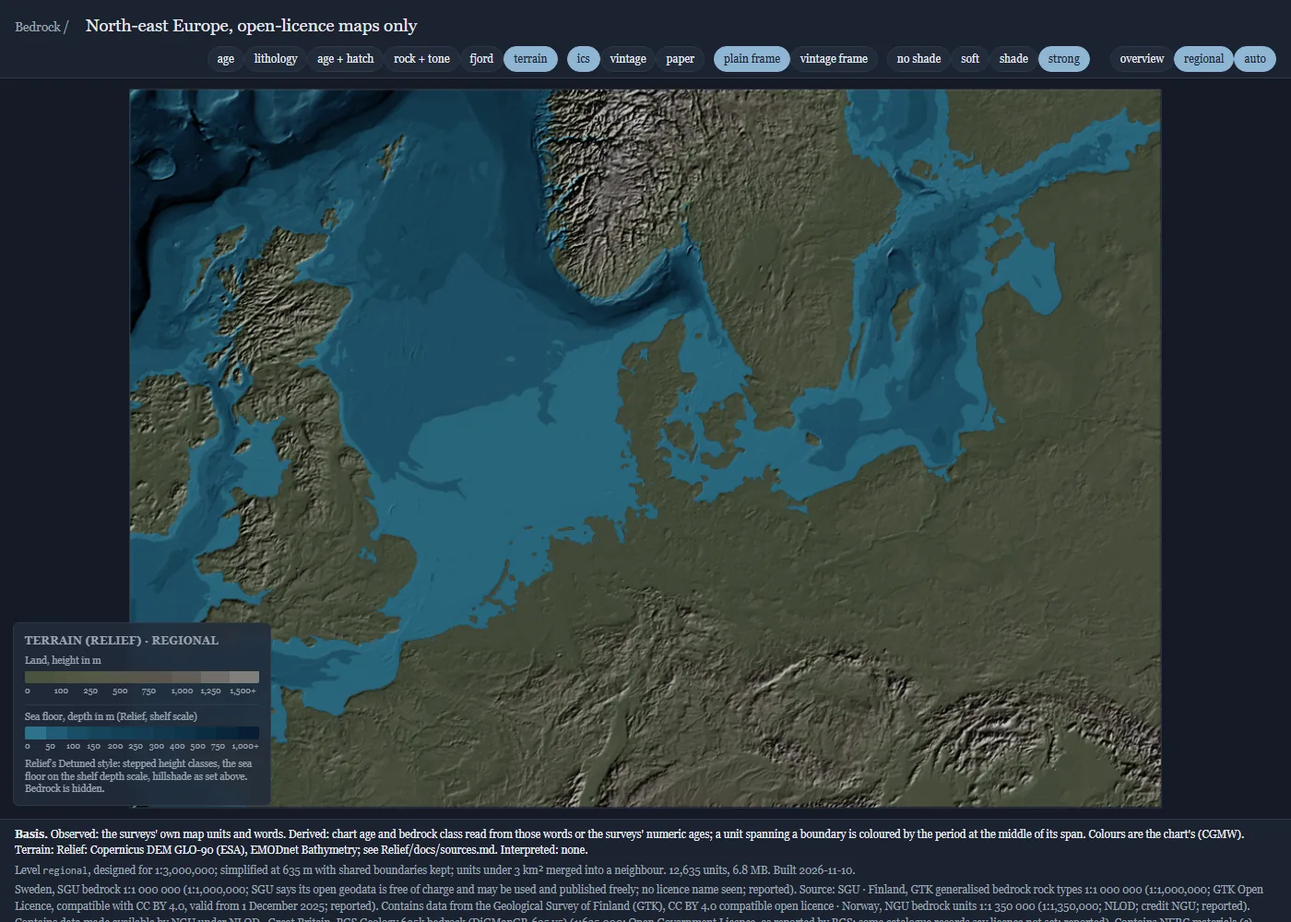
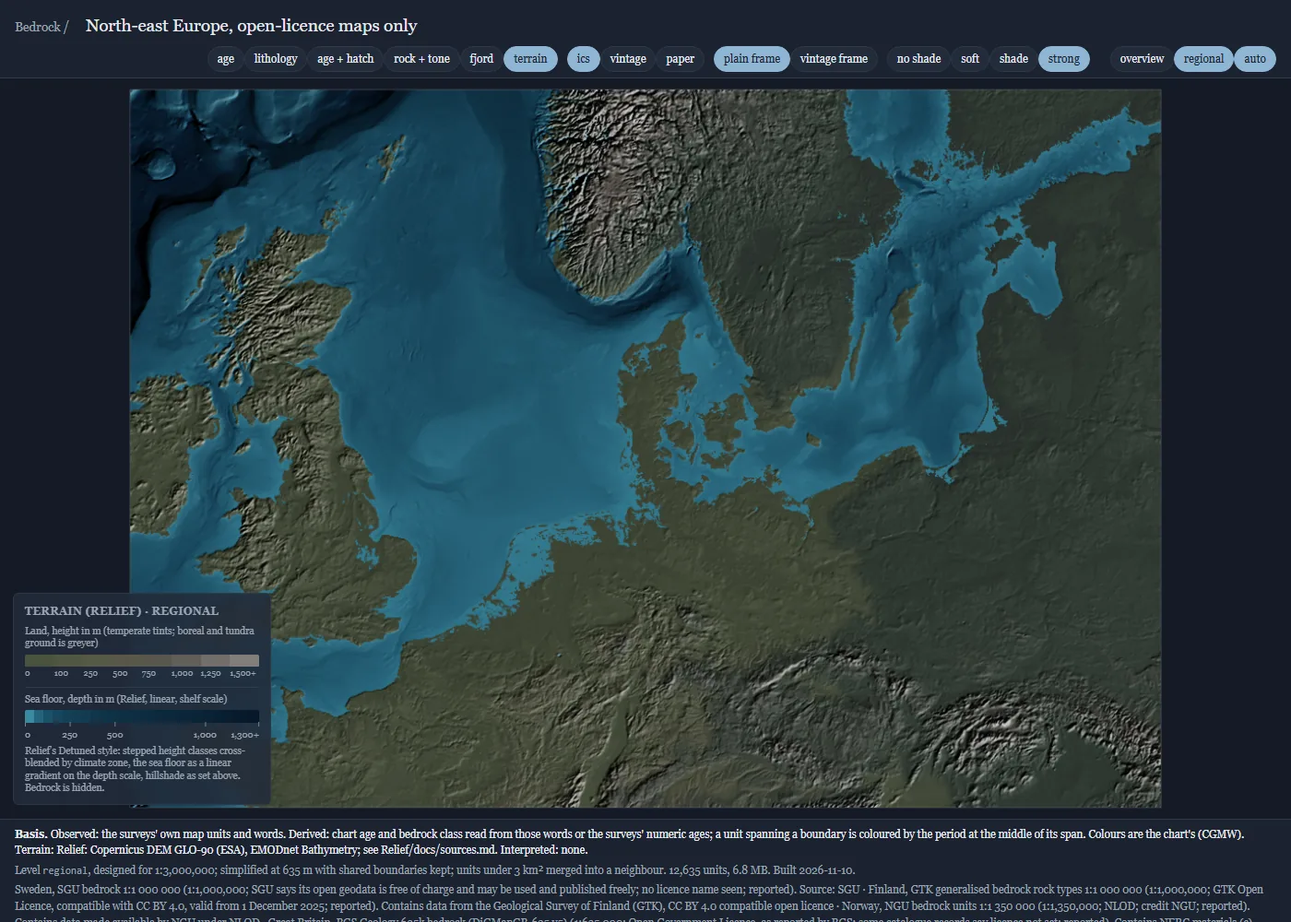
Relief's base maps under both viewers; catchment shapes on one colour family; legend bars render
publish.py copies each frame's regional_base_{light,dark}.png and the base part of Relief's manifest, so the sea floor is
Relief's linear bathymetry and the land its stepped climate tints; the depth key follows the manifest. In the combined
water view the river ribbons are detuned and the fall lines above them carry a saturated blue-to-indigo ramp.

Claude-Session: https://claude.ai/code/session_01XvpqcX8HdSbCdMgD8MUffi

diff --git a/site/s2s.js b/site/s2s.js
@@ -2,7 +2,8 @@
    Data: ../data/derived/<region>/layers.json and the files it lists; Relief layers from the sibling repo (serve the parent).
    Views (fill): cluster | quality | yield | sand | shield | carbonate | age | size | none.
    Water: all (slope threads under the river network and flow ribbons: the catchment-shape view) | network | flow | slope | off.
-   Sea floor and land wash on Relief's own depth and height scales (palette copied from Relief/preview/palette.js).
+   Under everything, Relief's base map (regional_base_{light,dark}.png: linear bathymetry, stepped climate-tinted land, see
+   Relief/docs/base-maps.md); the depth key follows Relief's manifest. Bands are coloured here only for a frame without a base.
    Ink: strong (clear blue, firm outlines) | subtle (desaturated, thin, blends with the map).  Shade: 0 to 1.5.
    Fold: hide catchments under a size class so the smallest do not turn the coast to noise. */
 
@@ -32,6 +33,12 @@ const systemMesh = topojson.mesh(topoS, topoS.objects.systems, (a, b) => a !== b
 const rivers = topojson.feature(topoR, topoR.objects.rivers).features;
 const hill = new Image(); hill.src = doc.relief.hillshade;
 await new Promise(res => { hill.onload = res; hill.onerror = res; });
+// Relief's base map (docs/base-maps.md in Relief): linear bathymetry on the frame's depth scale, stepped land tints by climate
+// zone, rendered once by Relief and drawn here as it is; its manifest names the depth scale for the key
+const reliefDir = ("../../" + doc.relief.hillshade).replace(/\/[^/]*$/, "");
+const rman = await fetch(reliefDir + "/manifest.json").then(r => r.ok ? r.json() : null).catch(() => null);
+const baseImg = new Image();
+if (rman && rman.base) { baseImg.src = reliefDir + "/" + rman.base.regional[dark ? "dark" : "light"]; await new Promise(res => { baseImg.onload = res; baseImg.onerror = res; }); }
 // Relief's hillshade PNG is light (flat ground sits near 180 of 255), and soft-light is neutral at mid grey, so drawn as it
 // comes it barely shows. Flat ground is moved to mid grey and the slopes stretched before the shade is composited.
 function toneHill(img, flat = 180, gain = 2.5) {
@@ -50,13 +57,16 @@ for (const f of systems) f.bbox = d3.geoPath().bounds(f);
 const RELIEF = {
   seaStops: [0, 20, 50, 100, 200, 500, 1000], seaMax: 1300,
   sea: { light: ["#e8f0f2", "#cfe1e6", "#aacdd8", "#7eb0c5", "#5891ae", "#3a6d94", "#264b73", "#162b50"], dark: ["#3a8aa2", "#2f7690", "#25647d", "#1c526b", "#144157", "#0e3045", "#092336", "#06172a"] },
+  oceanStops: [0, 200, 1000, 2000, 3000, 4000, 5000, 6000, 7000], oceanMax: 7000,
+  ocean: { light: ["#e2f4f9", "#bfe2ed", "#83bddc", "#5c9acd", "#4579ba", "#355a9f", "#2a3e80", "#1e2763", "#131546"], dark: ["#71b7c8", "#56a5bd", "#2c83aa", "#1d679c", "#154b8a", "#113375", "#101e5c", "#0a0b42", "#040027"] },
   landStops: [0, 50, 150, 300, 600, 1000, 1500, 2000], landMax: 2000,
   landRaw: { light: ["#d6e8b8", "#c6dea0", "#bad38f", "#cbcf92", "#d9c897", "#ccb8a0", "#d8d0c6", "#efece8"], dark: ["#46572f", "#4c5d33", "#536237", "#5d633b", "#665f42", "#655d50", "#85807a", "#aaa6a1"] },
 };
 function tune(h, sat, mix) { const c = d3.rgb(h), y = 0.2126 * c.r + 0.7152 * c.g + 0.0722 * c.b, t = mix > 0 ? 255 : 0, m = Math.abs(mix); const f = v => { const g = y + (v - y) * sat; return g + (t - g) * m; }; return d3.rgb(f(c.r), f(c.g), f(c.b)).formatHex(); }
 function reliefColour(kind, metres) {
-  const cols = kind === "sea" ? RELIEF.sea[dark ? "dark" : "light"] : RELIEF.landRaw[dark ? "dark" : "light"].map(h => tune(h, 0.5, dark ? -0.08 : 0.08));
-  const br = kind === "sea" ? RELIEF.seaStops : RELIEF.landStops, max = kind === "sea" ? RELIEF.seaMax : RELIEF.landMax;
+  const th = dark ? "dark" : "light";
+  const cols = kind === "sea" ? RELIEF.sea[th] : kind === "ocean" ? RELIEF.ocean[th] : RELIEF.landRaw[th].map(h => tune(h, 0.5, dark ? -0.08 : 0.08));
+  const br = kind === "sea" ? RELIEF.seaStops : kind === "ocean" ? RELIEF.oceanStops : RELIEF.landStops, max = kind === "sea" ? RELIEF.seaMax : kind === "ocean" ? RELIEF.oceanMax : RELIEF.landMax;
   const stops = br.map((b, i) => [b / max, cols[i]]); if (cols.length > br.length) stops.push([1, cols.at(-1)]);
   let t = Math.min(1, Math.max(0, metres / max)), k = 0; while (k < stops.length - 2 && t > stops[k + 1][0]) k++;
   const [t0, c0] = stops[k], [t1, c1] = stops[k + 1]; return d3.interpolateRgb(c0, c1)(Math.min(1, Math.max(0, (t - t0) / (t1 - t0 || 1))));
@@ -85,6 +95,13 @@ function tickBar(title, rampOf, ticks) {
   const tk = ticks.map(([t, l]) => `<span style="left:${(100 * t).toFixed(1)}%">${l}</span>`).join("");
   return `<div class="k">${title}</div><div class="bar">${stops}</div><div class="ticks">${tk}</div>`;
 }
+// the depth key as Relief's manifest describes it: a linear bar on the frame's depth scale with the manifest's ticks
+function depthKey() {
+  if (!rman || !rman.base) return "";
+  const ds = rman.base.depth_scale, kind = ds.kind === "ocean" ? "ocean" : "sea", max = ds.max_m;
+  const ticks = ds.ticks_m.filter(v => v / max < 0.9).map(v => [v / max, fmtN(v)]).concat([[1, fmtN(max) + "+"]]);
+  return `<div class="sep"></div>` + tickBar(`Sea floor, depth in m (Relief, linear, ${ds.kind} scale)`, t => reliefColour(kind, t * max), ticks);
+}
 
 const CL = ["#c8553d", "#3d6e9e", "#7a9a3b", "#b8860b", "#6b4c9a", "#2e8b8b", "#a0522d", "#5f5f5f"];
 const SIZE = { "under 1,000 km2": "#dcd6c8", "1,000 to 10,000 km2": "#b9b1a0", "10,000 to 100,000 km2": "#8c8372", "over 100,000 km2": "#5a5247" };
@@ -93,7 +110,10 @@ const ramp = d3.scaleSequential(d3.interpolateViridis).domain([0, 1]);
 const ageRamp = d3.scaleSequential(t => d3.interpolateRdYlBu(1 - t)).domain([1, 3.5]);
 const qualRamp = d3.scaleSequential(d3.interpolateYlGnBu).domain([0.1, 0.6]);      // sand quality proxy, most catchments fall between
 const yieldRamp = d3.scaleSequential(d3.interpolateYlOrBr).domain([0.5, 3]);        // log10 yield t/km2/yr, or log10 sand Mt/yr + 2
-const gradRamp = d3.scaleSequential(d3.interpolateViridis).domain([0, 0.08]);       // slope flow gradient (m/m)
+// Slope flow gradient (m/m) on one family with the water: flat ground in the detuned river blue, steep in a saturated indigo.
+// In the combined view the ribbons take the flat tone at low saturation and the threads above them carry the colour.
+const SHAPE = { flat: dark ? "#7fa3b8" : "#7f9fb4", steep: dark ? "#b08cff" : "#3a1f9c" };
+const shapeRamp = d3.scaleSequential(d3.interpolateHcl(SHAPE.flat, SHAPE.steep)).domain([0, 0.08]);
 const visible = p => (p.log10_area ?? 9) >= fold;
 
 function fillOf(p) {
@@ -123,9 +143,10 @@ function render() {
   path = d3.geoPath(proj, ctx);
   const [px0, py1] = proj([x0, y0]), [px1, py0] = proj([x1, y1]);
   ctx.fillStyle = getComputedStyle(document.body).getPropertyValue("--sea").trim(); ctx.fillRect(0, 0, W, H);
-  // Relief's sea floor on its depth scale, the land as a quiet height wash: the catchments sit on terrain that reads as terrain
+  // Relief's base map under everything (linear sea, stepped climate-tinted land); the bands coloured here only if a frame has no base yet
   let seaLevels = null;
-  if (bands) { seaLevels = drawBands("sea", 1); drawBands("land", ink === "strong" ? 0.55 : 0.75); }
+  if (baseImg.width) { ctx.drawImage(baseImg, px0, py0, px1 - px0, py1 - py0); if (ink === "strong") { ctx.fillStyle = dark ? "rgba(0,0,0,.18)" : "rgba(255,255,255,.22)"; ctx.fillRect(px0, py0, px1 - px0, py1 - py0); } }
+  else if (bands) { seaLevels = drawBands("sea", 1); drawBands("land", ink === "strong" ? 0.55 : 0.75); }
   // catchments
   const shown = systems.filter(f => visible(f.properties));
   const fa = ink === "strong" ? (dark ? 0.55 : 0.5) : (dark ? 0.35 : 0.3);
@@ -138,16 +159,17 @@ function render() {
   const sysOf = new Map(shown.map(f => [f.properties.system, f.properties]));
   // "all" is the catchment-shape view: the fall lines of the terrain as fine threads underneath, the rivers as ribbons gathering
   // over them and the network as a hairline, so the shape of each catchment reads from slope to mouth in one picture
-  if (riverMode === "slope" || riverMode === "all") slopeThreads(riverMode === "all");
+  // in the combined view the ribbons are detuned and sit under the slope threads, which carry the saturated colour; all one family
   if (riverMode === "network" || riverMode === "all") {
     for (const f of rivers) {
       if (fold && !sysOf.has(f.properties.system)) continue;
       const q = f.properties.log_discharge ?? 0; ctx.beginPath(); path(f);
       ctx.lineWidth = riverMode === "all" ? 0.3 : Math.max(0.3, (ink === "strong" ? 0.25 : 0.15) + (ink === "strong" ? 0.9 : 0.5) * q);
-      ctx.strokeStyle = riverMode === "all" ? alphaFill(inkRiver(), 0.35) : inkRiver(); ctx.stroke();
+      ctx.strokeStyle = riverMode === "all" ? alphaFill(SHAPE.flat, 0.3) : inkRiver(); ctx.stroke();
     }
   }
-  if (riverMode === "flow" || riverMode === "all") flowLines(sysOf);
+  if (riverMode === "flow" || riverMode === "all") flowLines(sysOf, riverMode === "all");
+  if (riverMode === "slope" || riverMode === "all") slopeThreads(riverMode === "all");
   // outlets
   for (const f of outlets.features) {
     if (fold && !sysOf.has(f.properties.system)) continue;
@@ -160,32 +182,33 @@ function render() {
 }
 /* Slope flow: paths of steepest descent on Relief's terrain, coloured by their mean gradient, the fall lines the rivers follow.
    Under the rivers (the combined view) they are drawn finer and quieter so the ribbons stay the subject. */
-function slopeThreads(under) {
+function slopeThreads(combined) {
   if (!slopeFlow) return;
   for (const f of slopeFlow.features) {
     const g = f.properties.mean_gradient; ctx.beginPath(); path(f);
-    ctx.strokeStyle = alphaFill(gradRamp(g), under ? (ink === "strong" ? 0.55 : 0.3) : (ink === "strong" ? 0.8 : 0.45)); ctx.lineWidth = under ? 0.45 : (ink === "strong" ? 0.7 : 0.45); ctx.stroke();
+    ctx.strokeStyle = alphaFill(shapeRamp(g), combined ? (ink === "strong" ? 0.9 : 0.6) : (ink === "strong" ? 0.85 : 0.5)); ctx.lineWidth = combined ? 0.6 : (ink === "strong" ? 0.7 : 0.45); ctx.stroke();
   }
 }
 
 /* Flow-line view: each reach drawn as a tapered ribbon whose width grows with discharge, in the colour of its catchment's
    group (or the ink), with a soft glow; the network reads as flow converging on the outlet rather than as a wire frame.
    The taper follows seismic_art's cities concept: strokes gain weight as they gather. Smoothing is Chaikin, two passes. */
-function flowLines(sysOf) {
+function flowLines(sysOf, combined = false) {
   const byQ = rivers.filter(f => !fold || sysOf.has(f.properties.system)).sort((a, b) => (a.properties.log_discharge ?? 0) - (b.properties.log_discharge ?? 0));
   ctx.save();
   for (const pass of ["glow", "core"]) {
     for (const f of byQ) {
       const p = f.properties, q = Math.max(0, p.log_discharge ?? 0);
       const sys = sysOf.get(p.system);
-      const col = ink === "strong" ? (sys && sys.cluster >= 0 && mode === "cluster" ? CL[sys.cluster % CL.length] : (dark ? "#a8d0ff" : "#1f5a8f")) : (dark ? "#aab7c6" : "#5c6f82");
+      let col = ink === "strong" ? (sys && sys.cluster >= 0 && mode === "cluster" ? CL[sys.cluster % CL.length] : (dark ? "#a8d0ff" : "#1f5a8f")) : (dark ? "#aab7c6" : "#5c6f82");
+      if (combined) col = mode === "cluster" && ink === "strong" ? tune(col, 0.35, dark ? -0.05 : 0.08) : SHAPE.flat;   // detuned, so the threads above carry the colour
       const lines = f.geometry.type === "LineString" ? [f.geometry.coordinates] : f.geometry.coordinates;
       for (const line of lines) {
         const pts = chaikin(line.map(c => proj(c)), 2);
         if (pts.length < 2) continue;
         ctx.beginPath(); ctx.moveTo(pts[0][0], pts[0][1]); for (let i = 1; i < pts.length; i++) ctx.lineTo(pts[i][0], pts[i][1]);
-        if (pass === "glow") { ctx.strokeStyle = alphaFill(col, ink === "strong" ? 0.18 : 0.1); ctx.lineWidth = 2.2 + 2.6 * q; }
-        else { ctx.strokeStyle = alphaFill(col, ink === "strong" ? 0.95 : 0.55); ctx.lineWidth = 0.4 + 1.3 * q; }
+        if (pass === "glow") { ctx.strokeStyle = alphaFill(col, combined ? 0.1 : ink === "strong" ? 0.18 : 0.1); ctx.lineWidth = 2.2 + 2.6 * q; }
+        else { ctx.strokeStyle = alphaFill(col, combined ? 0.6 : ink === "strong" ? 0.95 : 0.55); ctx.lineWidth = 0.4 + 1.3 * q; }
         ctx.stroke();
       }
     }
@@ -225,11 +248,11 @@ function legend(seaLevels) {
   }
   const foldNote = fold ? `<div class="row"><span class="k">catchments under ${fold === 3 ? "1,000" : "10,000"} km² hidden</span></div>` : "";
   const water = [];
-  if (riverMode === "all") water.push(`<div class="k" style="margin-top:6px">Catchment shapes: the terrain's fall lines as fine threads, the river network as a hairline, and the rivers as ribbons whose width and glow grow with mean discharge${mode === "cluster" && ink === "strong" ? " in the colour of the catchment group" : ""}</div>`);
+  if (riverMode === "all") water.push(`<div class="k" style="margin-top:6px">Catchment shapes: the rivers as muted ribbons whose width grows with mean discharge${mode === "cluster" && ink === "strong" ? " in the detuned colour of the catchment group" : ""}, the network as a hairline, and over them the terrain's fall lines coloured by gradient</div>`);
   if (riverMode === "flow") water.push(`<div class="k" style="margin-top:6px">Flow lines: width and glow grow with mean discharge${mode === "cluster" && ink === "strong" ? ", colour is the catchment group" : ""}</div>`);
   if (riverMode === "network") water.push(`<div class="k" style="margin-top:6px">Rivers: line weight grows with mean discharge</div>`);
-  if (riverMode === "slope" || riverMode === "all") water.push(tickBar("Slope flow: steepest descent on Relief terrain, colour is the mean gradient", t => gradRamp(0.08 * t), [0, 2, 4, 6, 8].map(v => [v / 8, v + " %"])));
-  const depth = seaLevels && shade >= 0 ? `<div class="sep"></div>${stepStrip("Sea floor, depth in m (Relief, shelf scale)", "sea", seaLevels)}` : "";
+  if (riverMode === "slope" || riverMode === "all") water.push(tickBar("Fall lines: steepest descent on Relief terrain, colour is the mean gradient", t => shapeRamp(0.08 * t), [0, 2, 4, 6, 8].map(v => [v / 8, v + " %"])));
+  const depth = depthKey() || (seaLevels ? `<div class="sep"></div>${stepStrip("Sea floor, depth in m (Relief, shelf scale)", "sea", seaLevels)}` : "");
   el.innerHTML = `<h3>${mode === "cluster" ? "Catchment groups by bedrock and age" : mode === "size" ? "Catchment size, log classes" : mode === "none" ? "Catchments outlined" : "Catchment index"}</h3>${rows}${foldNote}${water.join("")}${depth}`;
 }
 function strip() {

diff --git a/site/geology.js b/site/geology.js
@@ -5,7 +5,9 @@
    Views: age | lithology | age+hatch | tone (lithology hue, age as lightness on a linear ramp) | fjord (age alone on
    SubScout's fjord ramp) | terrain (Relief frames only: Relief's height and depth classes, bedrock hidden).
    Palettes: ics | vintage | paper. Frames: plain | vintage. Shade: 0 (off) to 1.5.
-   The sea floor is always on Relief's shelf depth scale (palette copied from Relief/preview/palette.js); the key shows it. */
+   Under everything on a Relief frame, Relief's base map (regional_base_{light,dark}.png: linear bathymetry, stepped
+   climate-tinted land; Relief/docs/base-maps.md); the depth key follows Relief's manifest. Bands are coloured here only
+   for a frame without a base. */
 
 const params = new URLSearchParams(location.search);
 const region = params.get("r") || "norway";
@@ -88,9 +90,17 @@ async function loadRelief(level) {
     hillCache.set(lv, img.width ? toneHill(img) : null);
     const b = await fetch(doc.relief.bands[lv]).then(r => r.ok ? r.json() : null).catch(() => null);
     bandCache.set(lv, b);
+    // Relief's base map (Relief/docs/base-maps.md): linear bathymetry on the frame's depth scale, stepped land tints by climate
+    // zone, rendered once by Relief; its manifest names the depth scale for the key
+    const dir = (doc.relief.hillshade[lv]).replace(/\/[^/]*$/, "");
+    const rm = await fetch(dir + "/manifest.json").then(r => r.ok ? r.json() : null).catch(() => null);
+    const bases = {};
+    if (rm && rm.base) for (const th of ["light", "dark"]) { const im = new Image(); im.src = dir + "/" + rm.base.regional[th]; await new Promise(res => { im.onload = res; im.onerror = res; }); if (im.width) bases[th] = im; }
+    baseCache.set(lv, { rm, bases });
   }
-  return [hillCache.get(lv), bandCache.get(lv)];
+  return [hillCache.get(lv), bandCache.get(lv), baseCache.get(lv)];
 }
+const baseCache = new Map();
 
 /* colour */
 const noAge = () => dark ? "#6b7280" : "#cfd3d8";
@@ -126,13 +136,16 @@ const alphaFill = (hex, a) => { const c = d3.color(hex); if (!c) return hex; c.o
 const RELIEF = {
   seaStops: [0, 20, 50, 100, 200, 500, 1000], seaMax: 1300,
   sea: { light: ["#e8f0f2", "#cfe1e6", "#aacdd8", "#7eb0c5", "#5891ae", "#3a6d94", "#264b73", "#162b50"], dark: ["#3a8aa2", "#2f7690", "#25647d", "#1c526b", "#144157", "#0e3045", "#092336", "#06172a"] },
+  oceanStops: [0, 200, 1000, 2000, 3000, 4000, 5000, 6000, 7000], oceanMax: 7000,
+  ocean: { light: ["#e2f4f9", "#bfe2ed", "#83bddc", "#5c9acd", "#4579ba", "#355a9f", "#2a3e80", "#1e2763", "#131546"], dark: ["#71b7c8", "#56a5bd", "#2c83aa", "#1d679c", "#154b8a", "#113375", "#101e5c", "#0a0b42", "#040027"] },
   landStops: [0, 50, 150, 300, 600, 1000, 1500, 2000], landMax: 2000,
   landRaw: { light: ["#d6e8b8", "#c6dea0", "#bad38f", "#cbcf92", "#d9c897", "#ccb8a0", "#d8d0c6", "#efece8"], dark: ["#46572f", "#4c5d33", "#536237", "#5d633b", "#665f42", "#655d50", "#85807a", "#aaa6a1"] },
 };
 function tune(h, sat, mix) { const c = d3.rgb(h), y = 0.2126 * c.r + 0.7152 * c.g + 0.0722 * c.b, t = mix > 0 ? 255 : 0, m = Math.abs(mix); const f = v => { const g = y + (v - y) * sat; return g + (t - g) * m; }; return d3.rgb(f(c.r), f(c.g), f(c.b)).formatHex(); }
 function reliefColour(kind, metres) {
-  const cols = kind === "sea" ? RELIEF.sea[dark ? "dark" : "light"] : RELIEF.landRaw[dark ? "dark" : "light"].map(h => tune(h, 0.5, dark ? -0.08 : 0.08));
-  const br = kind === "sea" ? RELIEF.seaStops : RELIEF.landStops, max = kind === "sea" ? RELIEF.seaMax : RELIEF.landMax;
+  const th = dark ? "dark" : "light";
+  const cols = kind === "sea" ? RELIEF.sea[th] : kind === "ocean" ? RELIEF.ocean[th] : RELIEF.landRaw[th].map(h => tune(h, 0.5, dark ? -0.08 : 0.08));
+  const br = kind === "sea" ? RELIEF.seaStops : kind === "ocean" ? RELIEF.oceanStops : RELIEF.landStops, max = kind === "sea" ? RELIEF.seaMax : kind === "ocean" ? RELIEF.oceanMax : RELIEF.landMax;
   const stops = br.map((b, i) => [b / max, cols[i]]); if (cols.length > br.length) stops.push([1, cols.at(-1)]);
   let t = Math.min(1, Math.max(0, metres / max)), k = 0; while (k < stops.length - 2 && t > stops[k + 1][0]) k++;
   const [t0, c0] = stops[k], [t1, c1] = stops[k + 1]; return d3.interpolateRgb(c0, c1)(Math.min(1, Math.max(0, (t - t0) / (t1 - t0 || 1))));
@@ -161,7 +174,16 @@ function tickBar(title, rampOf, ticks) {
   const tk = ticks.map(([t, l]) => `<span style="left:${(100 * t).toFixed(1)}%">${l}</span>`).join("");
   return `<div class="k">${title}</div><div class="bar">${stops}</div><div class="ticks">${tk}</div>`;
 }
-let reliefLevels = { sea: null, land: null };
+let reliefLevels = { sea: null, land: null, rm: null };
+// the depth key as Relief's manifest describes it (a linear bar with the manifest's ticks), else the stepped bands drawn here
+function depthKey() {
+  if (reliefLevels.rm) {
+    const ds = reliefLevels.rm.base.depth_scale, kind = ds.kind === "ocean" ? "ocean" : "sea", max = ds.max_m;
+    const ticks = ds.ticks_m.filter(v => v / max < 0.9).map(v => [v / max, fmtN(v)]).concat([[1, fmtN(max) + "+"]]);
+    return tickBar(`Sea floor, depth in m (Relief, linear, ${ds.kind} scale)`, t => reliefColour(kind, t * max), ticks);
+  }
+  return reliefLevels.sea ? stepStrip("Sea floor, depth in m (Relief, shelf scale)", "sea", reliefLevels.sea) : "";
+}
 
 /* hatches */
 const hatchCache = new Map();
@@ -196,15 +218,20 @@ async function render() {
   proj = makeProjection(width, height, pad);
   const chosen = levelName || chooseLevel(proj);
   layers = await loadLevel(chosen); path = d3.geoPath(proj, ctx); markLevel(chosen);
-  const [hill, bands] = await loadRelief(chosen);
+  const [hill, bands, rbase] = await loadRelief(chosen);
 
   ctx.fillStyle = vintage ? (dark ? "#2a2722" : pal.paper) : getComputedStyle(document.body).getPropertyValue("--sea").trim();
   ctx.fillRect(0, 0, width, height);
   if (vintage) paperGrain();
   ctx.save(); ctx.beginPath(); path(bboxFeature); ctx.clip();
   // Relief's sea floor on its depth scale under everything (quieter on paper); in the terrain view the land on its height scale too
-  reliefLevels = { sea: null, land: null };
-  if (bands) {
+  reliefLevels = { sea: null, land: null, rm: rbase && rbase.rm && rbase.rm.base ? rbase.rm : null };
+  const baseImg = rbase && rbase.bases[dark ? "dark" : "light"];
+  if (baseImg) {
+    const [x0, y0, x1, y1] = doc.relief.extent; const a = proj([x0, y1]), b = proj([x1, y0]);
+    ctx.save(); if (vintage) ctx.globalAlpha = 0.6; ctx.drawImage(baseImg, a[0], a[1], b[0] - a[0], b[1] - a[1]); ctx.restore();
+    if (bands) reliefLevels.land = bandLevels(bands, "land");   // for the terrain key only; the image carries the colour
+  } else if (bands) {
     reliefLevels.sea = drawBands(bands, "sea", vintage ? 0.5 : 1);
     if (mode === "terrain") reliefLevels.land = drawBands(bands, "land", vintage ? 0.85 : 1);
   }
@@ -264,10 +291,10 @@ function legend(chosen) {
   const counts = new Map();
   for (const L of layers) for (const f of L.features) { const k = (mode === "lithology" || mode === "tone") ? f.properties.litho_class : f.properties.ics_display; counts.set(k, (counts.get(k) || 0) + 1); }
   let html;
-  const depthKey = reliefLevels.sea ? `<div class="sep"></div>${stepStrip("Sea floor, depth in m (Relief, shelf scale)", "sea", reliefLevels.sea)}` : "";
+  const dk = depthKey();
   if (mode === "terrain") {
-    html = `<h3>Terrain (Relief) · ${chosen}</h3>` + (reliefLevels.land ? stepStrip("Land, height in m", "land", reliefLevels.land) : "") + depthKey +
-      `<div class="k" style="margin-top:6px">Relief's Detuned style: stepped height classes, the sea floor on the shelf depth scale, hillshade as set above. Bedrock is hidden.</div>`;
+    html = `<h3>Terrain (Relief) · ${chosen}</h3>` + (reliefLevels.land ? stepStrip("Land, height in m (temperate tints; boreal and tundra ground is greyer)", "land", reliefLevels.land) : "") + (dk ? `<div class="sep"></div>${dk}` : "") +
+      `<div class="k" style="margin-top:6px">Relief's Detuned style: stepped height classes cross-blended by climate zone, the sea floor as a linear gradient on the depth scale, hillshade as set above. Bedrock is hidden.</div>`;
     el.innerHTML = html; el.classList.toggle("vintage", frame === "vintage"); el.classList.toggle("dark", dark); return;
   }
   if (mode === "tone") {
@@ -297,7 +324,7 @@ function legend(chosen) {
     html = `<h3>${frame === "vintage" ? "Explication des couleurs" : title} · ${chosen}</h3>` + rows.map(([hex, label, n]) => `<div class="row"><span class="sw" style="background:${hex}"></span><span>${label}</span><span class="n">${n}</span></div>`).join("") + extra;
   }
   // the depth key sits first, above the unit list, which can be long enough to scroll
-  el.innerHTML = (reliefLevels.sea ? stepStrip("Sea floor, depth in m (Relief, shelf scale)", "sea", reliefLevels.sea) + `<div class="sep"></div>` : "") + html;
+  el.innerHTML = (dk ? dk + `<div class="sep"></div>` : "") + html;
   el.querySelectorAll("canvas[data-hatch]").forEach(c => { const g = c.getContext("2d"); g.fillStyle = dark ? "#2a3444" : "#fff"; g.fillRect(0, 0, 14, 14); const h = hatch(c.dataset.hatch); if (h) { g.fillStyle = h; g.fillRect(0, 0, 14, 14); } });
   el.classList.toggle("vintage", frame === "vintage"); el.classList.toggle("dark", dark);
 }

diff --git a/site/style.css b/site/style.css
@@ -78,7 +78,8 @@ canvas#map { display: block; width: 100%; height: 100%; }
 .legend .glab { width: 130px; font-size: .68rem; line-height: 1.1; color: var(--muted); }
 .legend .ghead { width: 22px; font-size: .62rem; text-align: center; color: var(--muted); }
 .legend .cell { width: 22px; height: 14px; display: inline-block; border-radius: 1px; }
-.legend .bar { display: flex; flex-wrap: nowrap; gap: 0; padding: 0; border: 0; height: 14px; border-radius: 2px; overflow: hidden; margin: 4px 0 0; }
+.legend .bar { display: flex; flex-wrap: nowrap; align-items: stretch; gap: 0; padding: 0; border: 0; height: 14px; border-radius: 2px; overflow: hidden; margin: 4px 0 0; }
+.legend .bar span { display: block; height: 14px; }
 .legend .ends { display: flex; justify-content: space-between; color: var(--muted); font-size: .7rem; }
 .legend .ticks { position: relative; height: 18px; margin: 0 0 4px; color: var(--muted); font-size: .66rem; }
 .legend .ticks span { position: absolute; top: 2px; transform: translateX(-50%); white-space: nowrap; padding-top: 4px; }
@@ -92,7 +93,8 @@ canvas#map { display: block; width: 100%; height: 100%; }
 .legend .sep { border-top: 1px solid var(--rule); margin: 8px 0 6px; }
 
 /* source-to-sink additions */
-.legend .bar { display: flex; flex-wrap: nowrap; gap: 0; padding: 0; border: 0; height: 14px; border-radius: 2px; overflow: hidden; margin: 4px 0 0; }
+.legend .bar { display: flex; flex-wrap: nowrap; align-items: stretch; gap: 0; padding: 0; border: 0; height: 14px; border-radius: 2px; overflow: hidden; margin: 4px 0 0; }
+.legend .bar span { display: block; height: 14px; }
 .legend .ends { display: flex; justify-content: space-between; color: var(--muted); font-size: .7rem; }
 .legend .ticks { position: relative; height: 18px; margin: 0 0 4px; color: var(--muted); font-size: .66rem; }
 .legend .ticks span { position: absolute; top: 2px; transform: translateX(-50%); white-space: nowrap; padding-top: 4px; }

diff --git a/scripts/publish.py b/scripts/publish.py
@@ -63,6 +63,11 @@ def main() -> None:
         shutil.copy2(RELIEF / "data" / "out" / fr / "regional.geojson", d / "regional.geojson")
         Image.open(RELIEF / "data" / "out" / fr / "overview_hillshade.png").convert("L").save(d / "overview_hillshade.png", optimize=True)
         shutil.copy2(RELIEF / "data" / "out" / fr / "overview.geojson", d / "overview.geojson")
+        # Relief's base map (linear bathymetry, stepped climate-tinted land) and the part of its manifest the viewers read
+        if man.get("base"):
+            for name in man["base"]["regional"].values():
+                shutil.copy2(RELIEF / "data" / "out" / fr / name, d / name)
+            (d / "manifest.json").write_text(json.dumps({"area": man["area"], "crs": man["crs"], "extent": man["extent"], "base": man["base"]}, indent=1), encoding="utf-8")
         manifest["relief"][fr] = {"crs": man["crs"], "extent": man["extent"], "attribution": "Relief (github.com/AdmcCarthy/Relief): Copernicus DEM GLO-90 (ESA), EMODnet Bathymetry; Kartverket and MAREANO on the Norwegian Sea frame"}
 
     # geology regions
